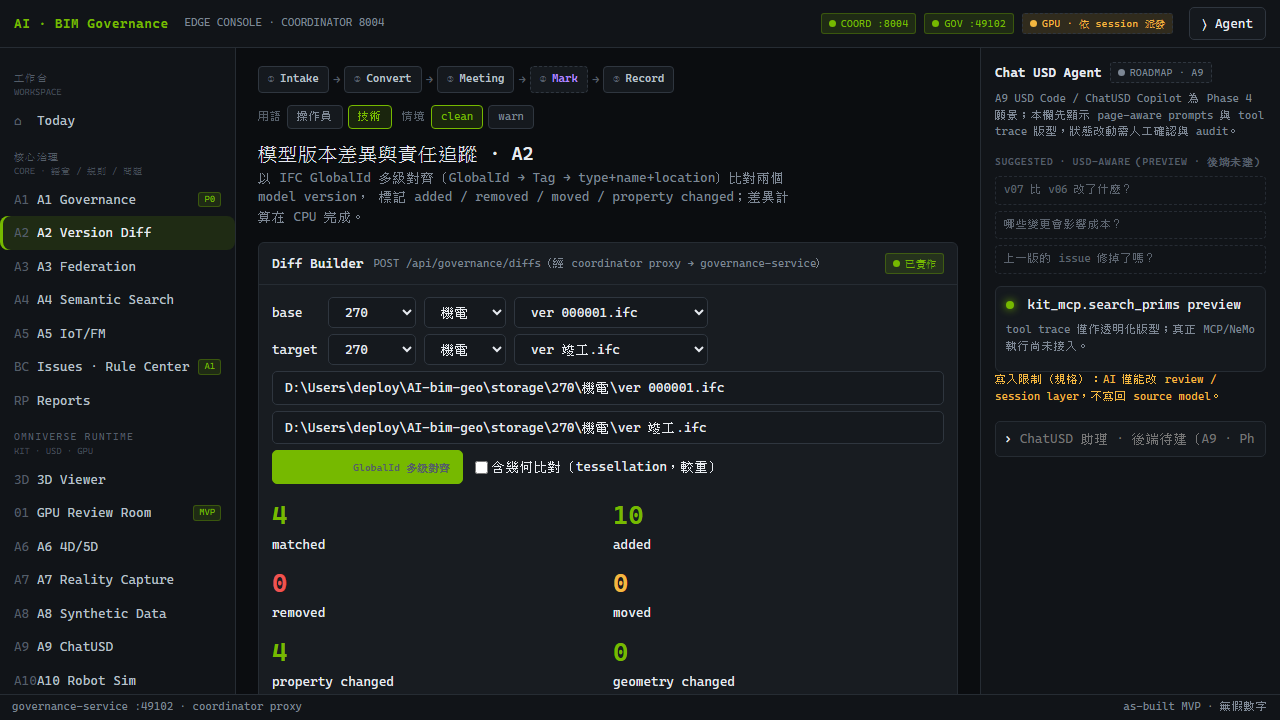
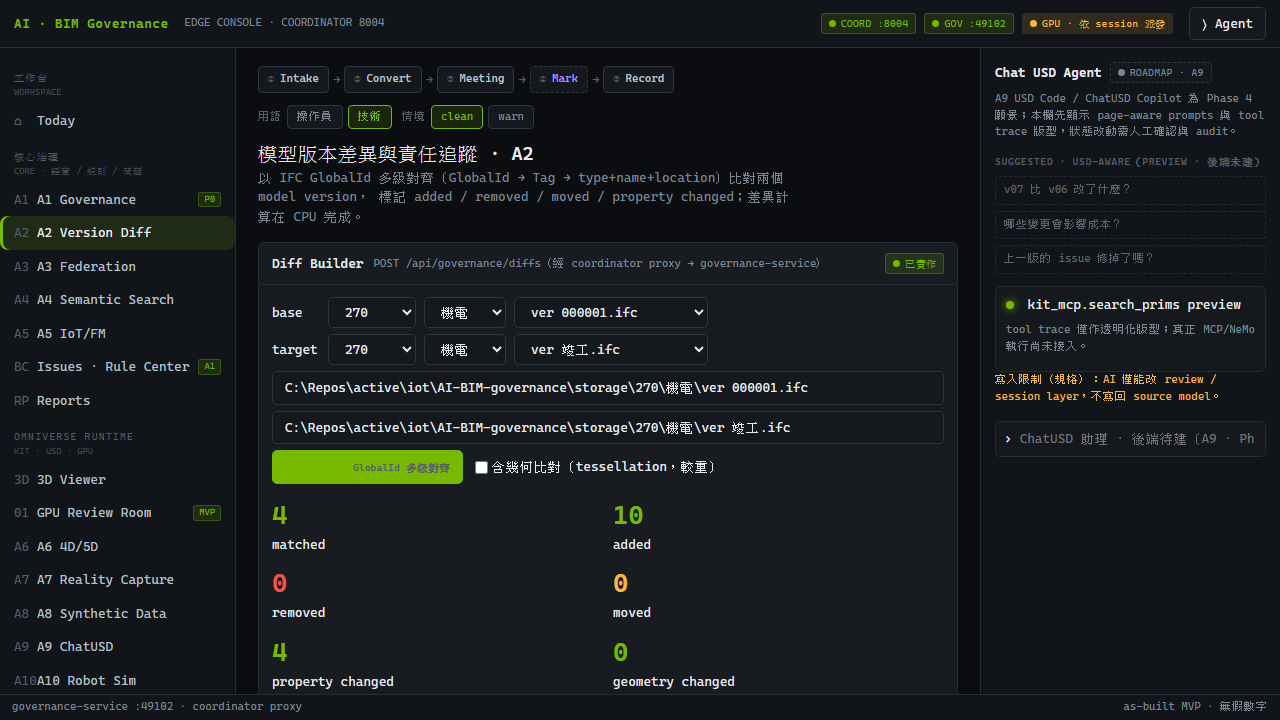
task#5: fix evidence final re-run 入庫（I1）+ 死碼清除 + 模組 docstring 三層同步 + matsu 截圖描述如實化（P5 critic 收尾）

Changed region(s): [[0.2188, 0.5806, 0.625, 0.6111], [0.2188, 0.5194, 0.625, 0.55]]

diff --git a/governance-service/tests/test_file_library.py b/governance-service/tests/test_file_library.py
@@ -1,6 +1,8 @@
 """file_library tree API（FastAPI TestClient，tmp root 造兩層 IFC 結構，CPU-only、毫秒級）。
 
-守 spec §4.1/§7：只列兩層 {projectId}/{modelId}/*.ifc、只收 .ifc（大小寫不敏感）、
+守 spec §4.1/§7：兩層 {projectId}/{modelId}/*.ifc（檔名即版本）與三層
+{projectId}/{modelId}/{versionDir}/*.ifc（name="{versionDir}/{filename}"）並收、第四層忽略、
+只收 .ifc（大小寫不敏感）、
 防 path traversal（root 外 symlink 不出現）、root 不存在/空 回 200 空 projects、
 ver 竣工.ifc 固定排最後。中文路徑（機電/水電/消防、竣工）全程 UTF-8。
 """
@@ -168,7 +170,7 @@ def test_fourth_level_and_empty_version_dir_ignored(client):
     c, _ = client
     body = c.get("/api/files/tree").json()
     projects = {p["project_id"]: p for p in body["projects"]}
-    names = [v["name"] for v in projects["270"]["models"]["機電"]["versions"]] if False else [
+    names = [
         v["name"] for m in projects["270"]["models"] if m["model_id"] == "機電" for v in m["versions"]
     ]
     assert all("too_deep" not in n for n in names)

diff --git a/governance-service/file_library/api.py b/governance-service/file_library/api.py
@@ -1,7 +1,8 @@
 """A1 file-library browse REST（APIRouter，掛入 governance-service app）。
 
 唯讀 local file-server 模擬層（spec §4.1）：掃 BIM_FILE_LIBRARY_ROOT（預設 repo storage/）下
-兩層 {projectId}/{modelId}/*.ifc，回 project→model→version 樹，比照真實 MinIO
+兩層 {projectId}/{modelId}/*.ifc（檔名即版本）與三層 {projectId}/{modelId}/{versionDir}/*.ifc
+（version name = "{versionDir}/{filename}"，第四層忽略），回 project→model→version 樹，比照真實 MinIO
 bim-control/{projectId}/{modelId}/version 語意。source_kind="local_fs" 是誠實標記，未來真
 MinIO 接上時改 "s3"，前端文案跟著翻。不做上傳/刪除/改名（唯讀）；不接真 S3 client。
 """
